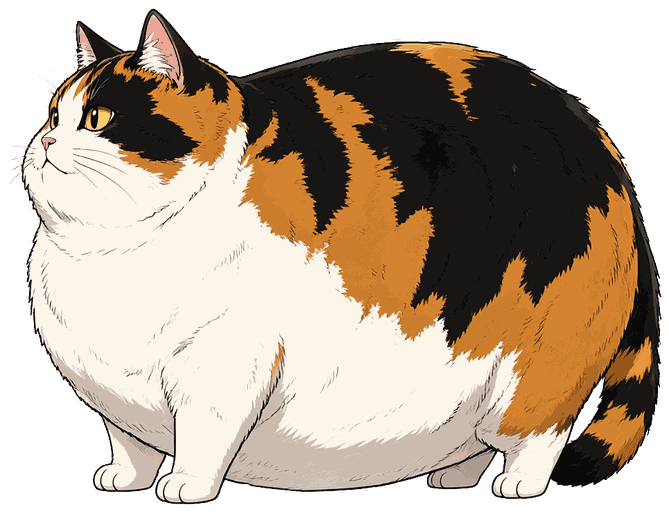
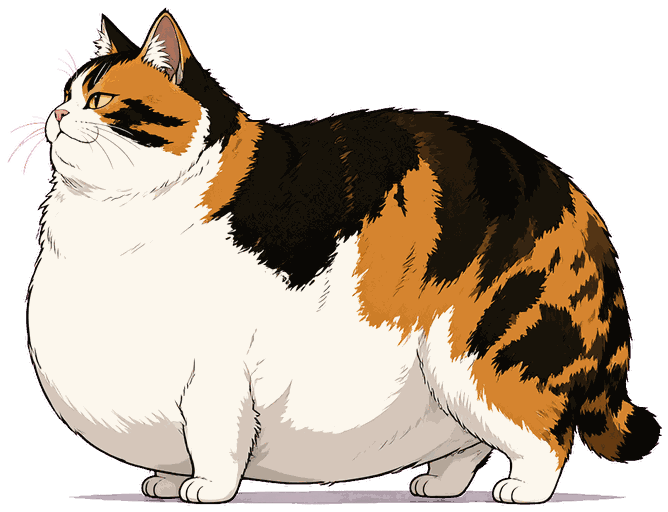
HANDOFFS: ramp recalibration note + PR4 merge

diff --git a/HANDOFFS.md b/HANDOFFS.md
@@ -1,3 +1,11 @@
+## Handoff — chonk ramp recalibration + PR4 merge — qwen, 2026-10-06
+Owner flagged the ladder: huge 10→20 jump, plateau 30–70, tabby 70→80 shrank. Cause: hyperbolic "twice as obese" chain prompts fire the fat-cat prior immediately, then saturate. Fix: **calibrated intensity ramp** — per-stage body-language (20 chubby-walks-normally → 30 belly-past-knees → 40 sagging-two-rolls → 50 pooling-several-rolls → 60 body-wider → 70 wider-than-tall → 80 mountain-of-blubber), chained from the good 10 lb bases. All 4 varieties re-chained 20–80; ramp is now monotonic. Merged PR4 (mega-levels) with the sprite regen — smoke 62/62. Your kitchen_bg key fix + per-level weight reset kept as-is.
+Files: assets/{cat,orange,tuxedo,calico}_w20..80.png
+**Prompt lesson for future chains:** absolute hyperbole saturates chains; per-stage relative body-language ("belly hanging low past the knees", "body wider than tall") gives monotonic progression.
+Review (stunkus): —
+
+---
+
 ## 2026-10-05 22:45 CDT — stunkus: PR #4 mega-levels ready for review
 Branch `stunkus/mega-levels` (PR #4) answers Blarmo's post-merge list: tight symmetric
 hex layouts (45-49 barrels L1-5 at r=11, 67-79 L6+ at r=10), quotas set to 60% of raw
